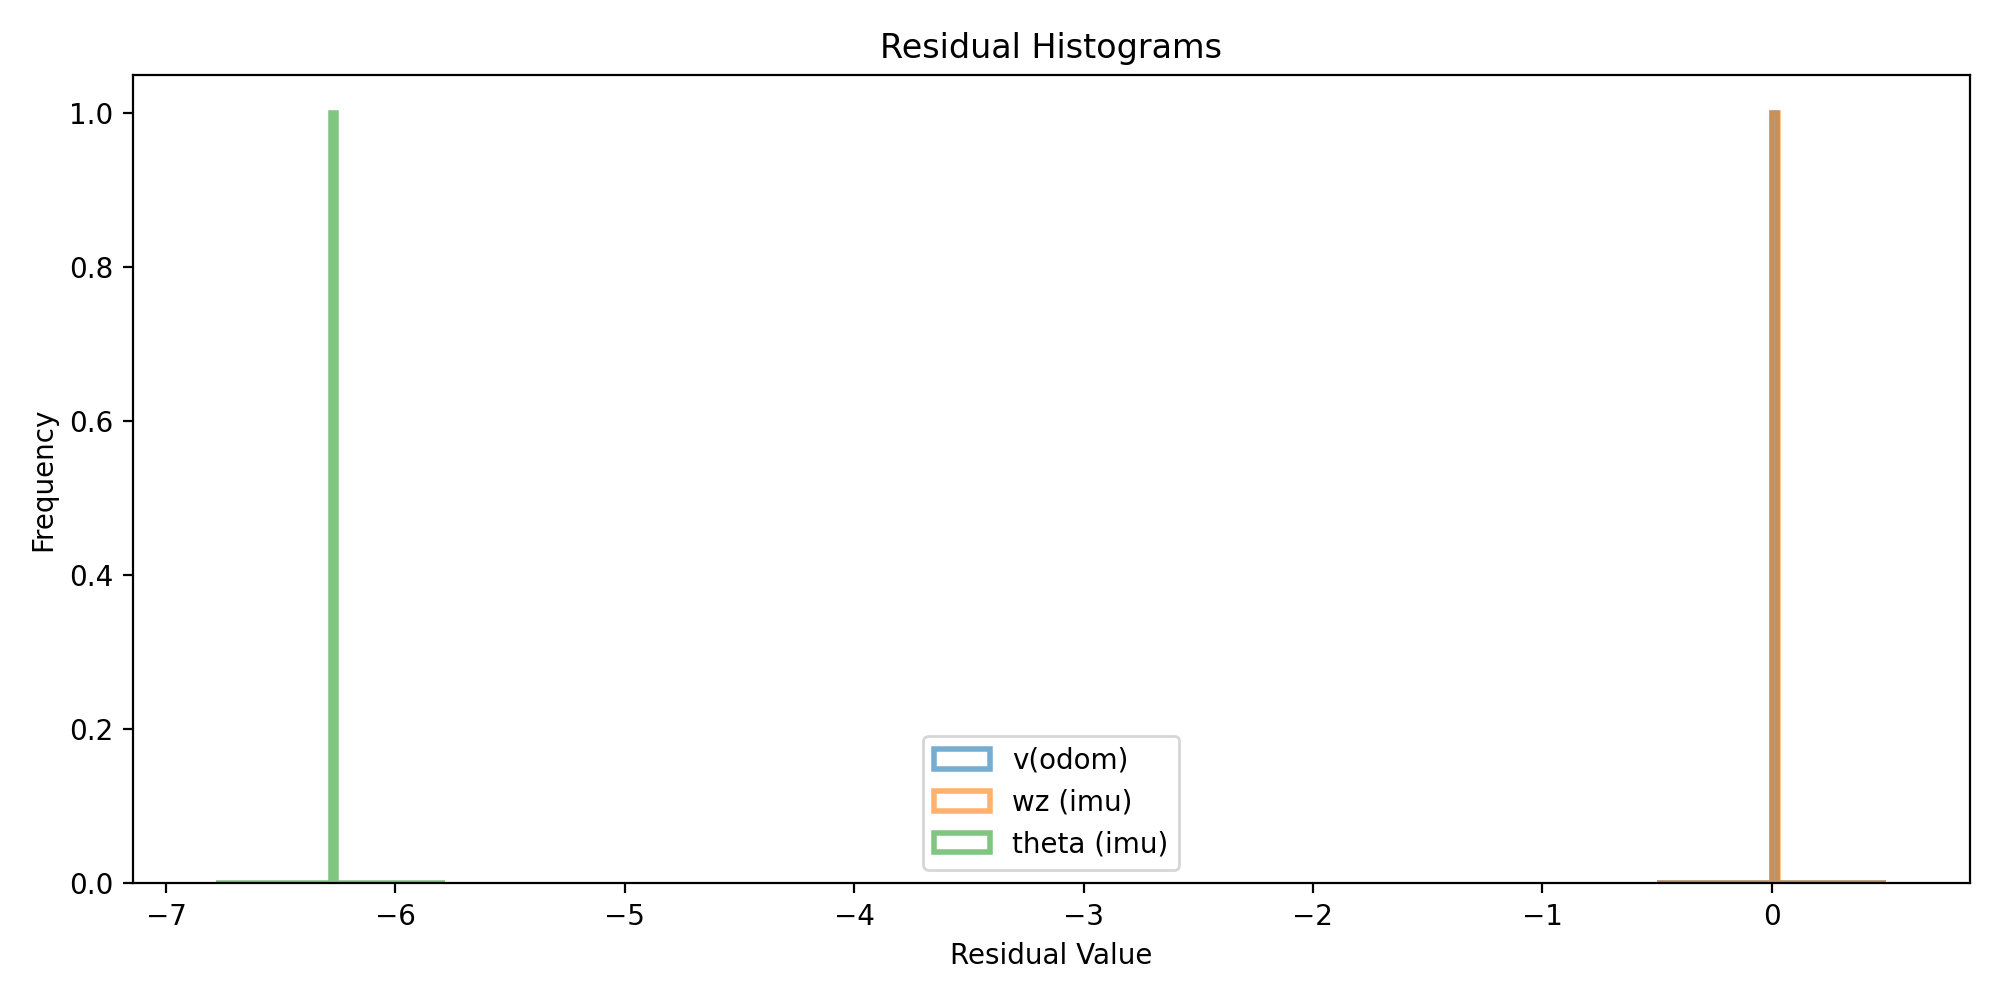
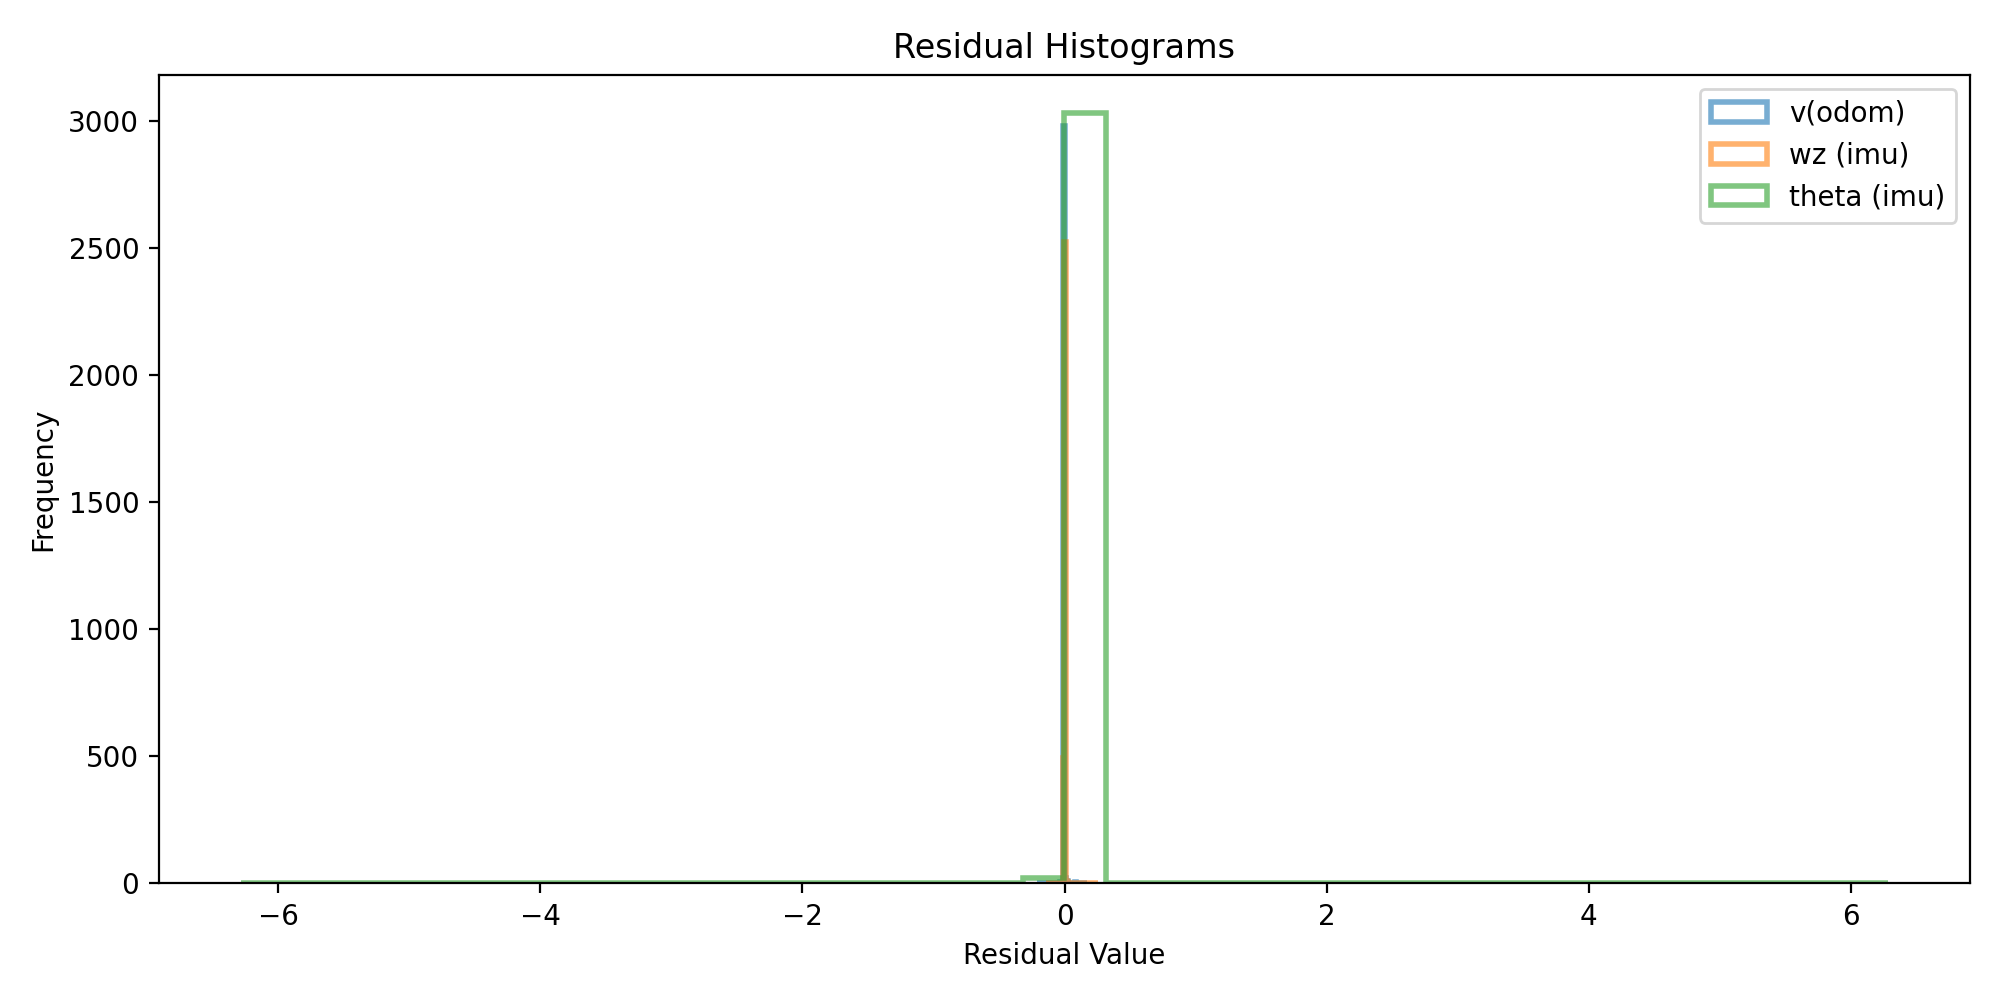
Latest changes

diff --git a/src/roomba_bringup/roomba_bringup/sensor_reader.py b/src/roomba_bringup/roomba_bringup/sensor_reader.py
@@ -11,7 +11,7 @@ class SensorReaderNode(Node):
         self.timer = self.create_timer(0.1, self.timer_callback)
         
         # Initialize serial connection
-        self.ser = serial.Serial('/dev/ttyUSB0', 115200, timeout=1)
+        self.ser = serial.Serial('/dev/ttyUSB1', 115200, timeout=1)
         self.ser.flush()
         time.sleep(2)
         

diff --git a/src/roomba_bringup/roomba_bringup/kf_odom_node.py b/src/roomba_bringup/roomba_bringup/kf_odom_node.py
@@ -192,7 +192,7 @@ class OdomNode(Node):
         odom = Odometry()
         odom.header.stamp = self.get_clock().now().to_msg()
         odom.header.frame_id = "odom"
-        odom.child.frame_id = "base_link"
+        odom.child_frame_id = "base_link"
 
         odom.pose.pose.position.x = self.xk[0]
         odom.pose.pose.position.y = self.xk[1]
